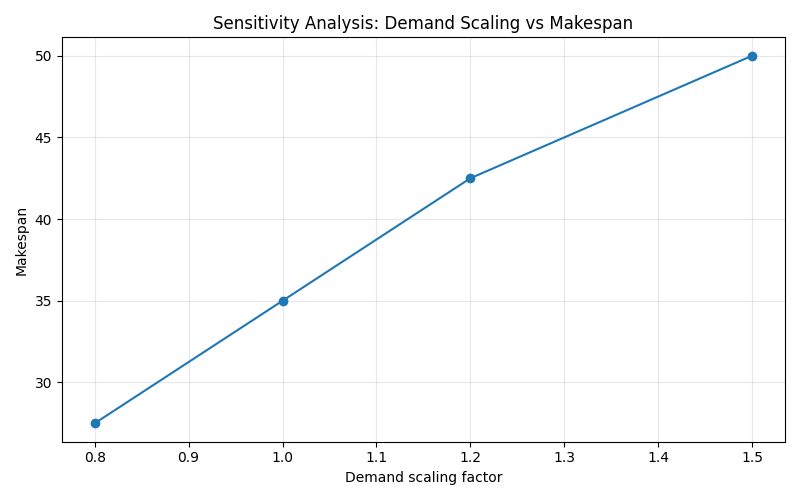
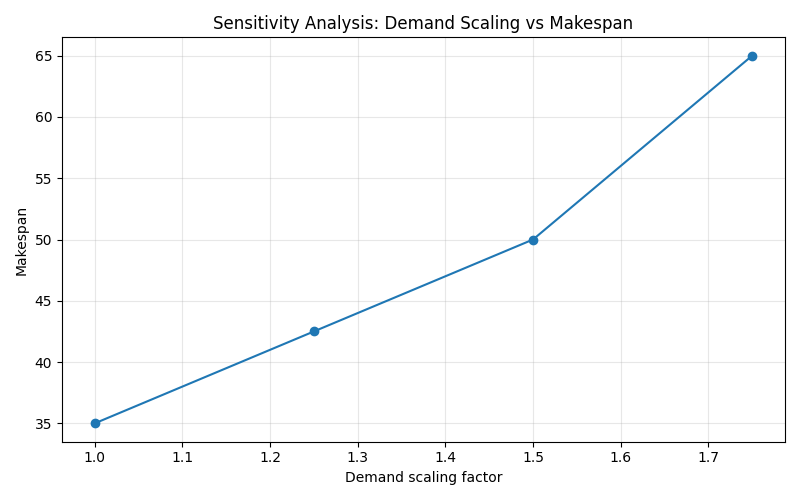
Sensitivity analysis updated

diff --git a/scheduler/sensitivity_analysis.py b/scheduler/sensitivity_analysis.py
@@ -58,7 +58,7 @@ DEFAULT_METHODS = [
     "IteratedLocalSearch",
 ]
 
-DEMAND_FACTORS = [0.8, 1.0, 1.2, 1.5]
+DEMAND_FACTORS = [1.0, 1.25, 1.5, 1.75]
 SPEED_FACTORS = [0.8, 1.0, 1.2]
 
 DEFAULT_SEED = 42
